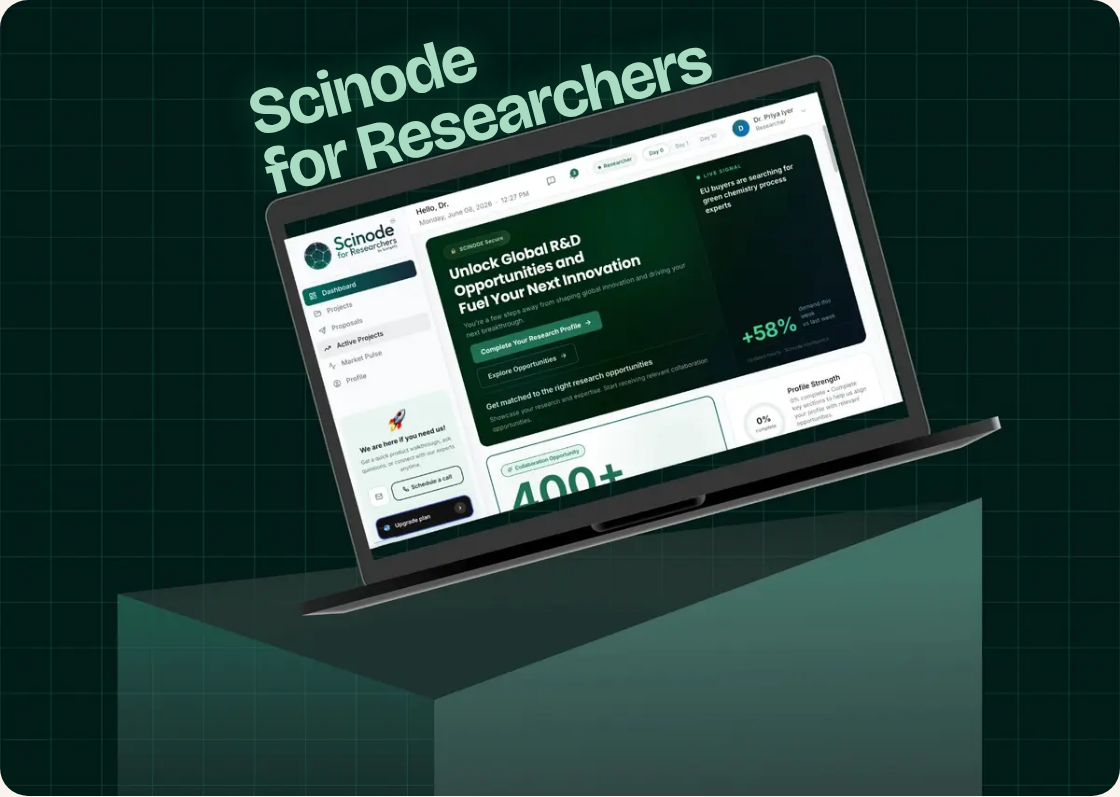
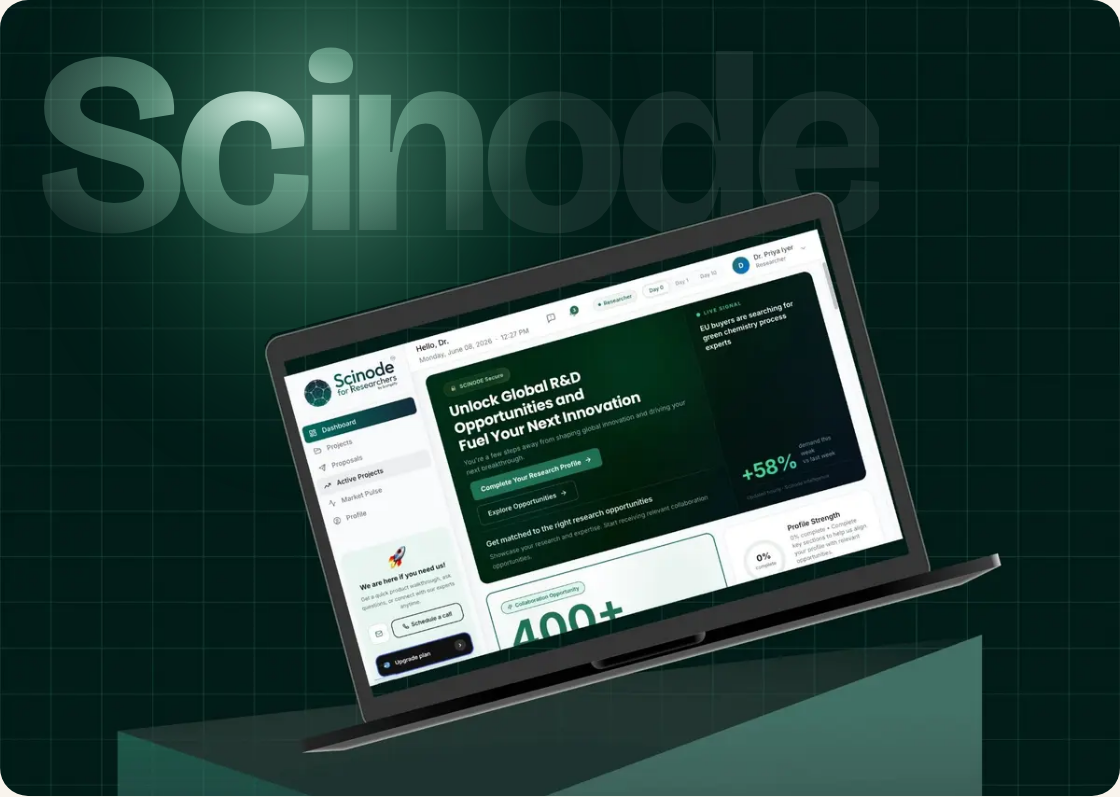
Scinode for Researchers: hero in the style of Sathi's reference, a huge spotlit word behind the laptop
Claude-Session: https://claude.ai/code/session_019tdsjdycHUUKRYVh6BtvSG

diff --git a/src/components/scinode/researcher/hero.tsx b/src/components/scinode/researcher/hero.tsx
@@ -1,33 +1,38 @@
 import Image from "next/image"
 
-// Hero for Scinode for Researchers: Sathi's laptop mockup with a huge "Scinode for Researchers" title tucked
-// behind the screen. Layers: the full image, the title, then the same image clipped to the laptop outline
-// (image coordinates in %, traced on the 2000×1422 original), so the lid hides the bottom of the letters.
-const src = "/case-studies/scinode/researcher-hero.jpg"
+// Hero for Scinode for Researchers, in the style of Sathi's reference (a huge, low-contrast brand word lit by a soft
+// spotlight, partly hidden behind the screen). Her laptop mockup, with the grid background extended upward so the
+// word fits above the lid. Layers: the image, a mint spotlight, the word, then the same image clipped to the traced
+// laptop outline (% of the 2000×1422 image), so the lid covers the bottom of the letters on the right.
+const src = "/case-studies/scinode/researcher-hero-v2.jpg"
 const laptop =
-  "polygon(23.6% 26.16%, 24.3% 24.75%, 72.9% 6.75%, 74.2% 7.31%, 74.75% 8.44%, 83% 54.15%, 89.3% 52.32%, 89.4% 54.15%, 27.3% 77.43%, 26.85% 76.65%, 32.6% 73.28%)"
+  "polygon(23.6% 43.39%, 24.3% 41.98%, 72.9% 23.98%, 74.2% 24.54%, 74.75% 25.67%, 83% 71.38%, 89.3% 69.55%, 89.4% 71.38%, 27.3% 94.66%, 26.85% 93.88%, 32.6% 90.51%)"
 
 export function ResearcherHero() {
   return (
     <div className="relative overflow-hidden rounded-[20px] md:rounded-[28px] [container-type:inline-size]" style={{ aspectRatio: "2000 / 1422" }}>
       <Image src={src} alt="" fill priority sizes="(min-width: 1200px) 1120px, 100vw" className="object-cover" />
-      {/* the title runs parallel to the lid's top edge, its lower part tucked behind the screen */}
+      {/* spotlight */}
+      <div
+        aria-hidden
+        className="absolute rounded-full blur-[4cqw]"
+        style={{ left: "6%", top: "-22%", width: "46%", height: "78%", background: "radial-gradient(closest-side, rgba(150,220,190,0.55), rgba(47,174,116,0.18) 60%, transparent)" }}
+      />
+      {/* the word: faint on the dark grid, brighter where the spotlight falls */}
       <p
         aria-hidden
-        className="absolute font-heading leading-[0.92] font-bold tracking-[-0.03em] whitespace-nowrap select-none"
+        className="absolute font-heading leading-none font-bold tracking-[-0.04em] whitespace-nowrap select-none"
         style={{
-          left: "24.3%",
-          top: "24.75%",
-          fontSize: "5.9cqw",
-          transformOrigin: "0 100%",
-          transform: "translateY(-100%) rotate(-14.75deg) translateY(0.7cqw)",
-          color: "#a9dcc3",
-          textShadow: "0 0 3cqw rgba(47,174,116,0.35)",
+          left: "3%",
+          top: "0.5cqw",
+          fontSize: "27.5cqw",
+          backgroundImage: "radial-gradient(ellipse 34% 60% at 27% 35%, rgba(222,248,236,0.9) 0%, rgba(160,222,194,0.5) 40%, rgba(255,255,255,0.075) 100%)",
+          WebkitBackgroundClip: "text",
+          backgroundClip: "text",
+          color: "transparent",
         }}
       >
         Scinode
-        <br />
-        for Researchers
       </p>
       <Image src={src} alt="Scinode for Researchers dashboard on a laptop" fill sizes="(min-width: 1200px) 1120px, 100vw" className="object-cover" style={{ clipPath: laptop }} />
     </div>

diff --git a/CLAUDE.md b/CLAUDE.md
@@ -125,7 +125,7 @@ The site is inspired by https://www.benshih.design/: its layout patterns, type s
    - Status (Oct 2026): LOW-FIDELITY ARCHITECTURE, at her request. Real content: the ecosystem copy (her wording: 3 portals, 6 steps 01 Create an opportunity … 06 Initiate & track execution, journey Customer demand → … → Delivery, 3 value props). Everything else is a dashed "Placeholder" wireframe (`wire.tsx`) marked "Content to come" until she sends content, screens and flows.
    - Colours: SCINODE uses only the site palette: brand green + purple (customer = purple #ece9fd/#6e62e5, supplier = green #e4f1eb/#02594e, admin and execution = neutral sand #f2ece3/#6b7f7c; placeholder/"Content to come" chips purple #ece9fd/#5b4fd1). No orange/blue/yellow.
    - Page order (her request): first "How it works" (understand the ecosystem), then the clickable map. Ecosystem page: hero (meta placeholders + image box), then How it works (below), then a full-width clickable **Ecosystem map** titled "What I designed, by user" (`ecosystem-map.tsx`, id `map`): 6-column hierarchy: SCINODE pill → three portals; Customer Portal → one "Customer portal modules" card (purple header strip) split in two: CVP (her module, clickable, "Designed by me") | dashed "Other customer modules" (teammates), so CVP reads as part of the portal; Business & Admin Portal → dashed teammates card; Supplier Portal → two sign-up tracks (`supplierTracks`): Manufacturer → Manufacturer card, Researcher → CRO + Scientist (`track: "researcher"`, breadcrumb SCINODE › Supplier portal › Researcher › CRO). Her cards are white with a green border, a `kind` eyebrow, module chips or "Content to come", a corner arrow and a "Designed by me" footer; teammates' lines are grey and drawn under the green ones; lines are measured from non-animated wrappers so they stay exact while cards pop in; connectors draw in one by one on scroll level by level with cards popping in; phones get an indented vertical tree (portal → track → card) (CSS `order`). How it works (full width, id `ecosystem`, placed BEFORE the map; `Ecosystem` in `ecosystem.tsx`): her reference-board layout made cleaner, ~800px so it fits one screen. Big solid brand-green \"Platform Ecosystem\" title (same size as before, no longer faint) with the intro BELOW it (no overlap); three portal columns as soft tinted bands (customer purple, admin neutral, supplier green; no nested boxes) with an inline icon header + one-line purpose; white step cards placed 01 customer; 02 + 03 admin; 04 + 05 supplier; 06 below admin (Execution tag). Real arrows with arrowheads in the 64px column gaps: 01→02, 02→03, 02→04, 04→05, 05→03 (proposal back into collaboration), 03→06, drawn one by one on scroll, each card fading in as its arrow arrives. Her steps (01, 04, 05 = `litSteps`, TBC) get a green "Designed by me" tab. Copy is ONLY her text (not the reference image's). Phones: portals stack with their cards, no arrows. Full page order (Oct 2026, no TOC): header (meta + "project at a glance" as a compact row of scope facts: 3 portals, 6 steps, 2 sign-up tracks, 4 user areas; My role = "Designed the CVP module in the customer portal and the whole supplier side"), hero box, **The problem** (above the ecosystem; `problem` in `scinode.ts`, rendered with Deep Research's `problemSolution` block: No clear start / Hard to match / Lost continuity, drafted by Claude from her own ecosystem copy, awaiting her confirmation), How it works, Ecosystem map, **Visual language** (`visualLanguage`: Deep Research's `typeHierarchy` (Inter) + `palette` with generic uses; Sathi said SCINODE uses the same fonts and colours as Deep Research), **Explore what I designed** (3 cards: CVP, Manufacturer sign-up, Researcher sign-up with CRO and Scientist links; Manufacturer and Researcher show her "Scinode for Manufacturers/Researchers by Scimplify" logos small at the top left (`public/case-studies/scinode/logo-*.png`, grey background keyed out), CVP shows the customer portal logo "Scinode by Scimplify" (`logo-customers.png`, slightly smaller, all logos in a fixed h-11 slot); each card has a 16:10 image placeholder until she sends the card images). The page's <main> sets the Deep Research accent vars and maps --tone-orange to #1F392D so the reused renderers show no orange. Learnings and the separate My role section were removed at her request (SCINODE is not finished, so no learnings yet).
-   - **Scinode for Researchers** (`/work/scinode/researcher`, page `src/app/work/scinode/researcher/page.tsx`, data `src/lib/scinode-researcher.ts`, visuals `src/components/scinode/researcher/diagrams.tsx`, client bits `interactive.tsx`: pilot-plant toggle + evolution flip cards): ONE research-led UX case study for CROs and scientists (Oct 2026, reworked after Sathi's feedback). NO CRO/Scientist switch: both share every use case (verify, find projects, propose, run projects); ONLY THE PROFILE differs (CRO 8 sections, scientist 5 steps), shown in Personas ("Same for both" / "Only the profile is different") and in the platform architecture (the profile node splits in two). Rules: visual first, very little text, no résumé-style bullet lists, prominent understandable headings, say "CROs and scientists" (never "supplier"), no buyer research on this page, no market section, no inner scroll on desktop. Header has no meta row (the overview carries it). Hero (`researcher/hero.tsx`): Sathi's laptop mockup `public/case-studies/scinode/researcher-hero.jpg` (dark green grid, laptop on a green block; the Next.js dev "N" badge baked into her screenshot was painted out) with a huge mint "Scinode / for Researchers" title tilted to the lid angle (-14.75°) and tucked behind the screen: image, then title, then the same image clip-pathed to the traced laptop outline, so the lid hides the bottom of the second line. Layout like the other case studies (Sathi's request): sticky "On this page" TOC on the left, every section (overview included) in the content column beside it, never full width. Compact rhythm (Oct 2026, at her request): sections pt-16/lg:pt-20, header-to-content mt-8/md:mt-10, titles 30/34/38px; keep it compact. Each section has an editorial header (`EdSection`/`EdHead` in `ed-section.tsx`: small label, light title whose second part is italic serif; NO "[0n]" index numbers, removed at her request). Sections: Overview, in the content column, in the editorial style of Sathi's reference (`EditorialOverview`, data `overview`): small "Overview" label (no "[01]" index), light one-line title "One R&D platform for" + italic serif "CROs & scientists", a huge statement mixing plain words and grey Instrument Serif italic words ("We help labs show their science, get matched by chemistry, and run every project in one place.") with pastel gradient icon bubbles (peach microscope, lavender puzzle, mint layers) overlapping those words, then a "Label / value" list (Company, Users, Role, Year) and a short grey paragraph on the right. Instrument Serif is loaded only for this case study (`researcher/fonts.ts`) → Problem "Great labs, hidden behind emails" (`ProblemVenn`, Sathi's reference in site colours on the cream page, with her THREE original problems: three overlapping dashed circles in a triangle, Problem 01 Invisible / 02 Mismatched / 03 Scattered with lavender pills, each in the part of its circle no other circle covers; the shared centre (a rect clipped by all three circles) is brand green with a soft glow and holds the white "Solution" pill and text; md+ only, phones stack three dashed cards and a green solution card) (the same section continues with the research objectives at her request: sub-heading "Research objectives / Four questions to answer", the 4 objective cards and the how-might-we panel; no separate objectives section or TOC entry) → Research methods "Seven research methods" (`MethodArcs`, Sathi's design-process reference on the cream page: a white core circle (radial white → faint mint, soft green halo and drop shadow, thin green rings, one dashed; NOT a solid fill, at her request) with the Scinode for Researchers logo at the left, 7 concentric oval rings fading out to the left (inner rings nearly round, outer flatter so they stay below the labels), a vertical line from each ring's rightmost point up to a vertical method label with an icon disc on top, and each method's `detail` curving along its ring via textPath; phones get a vertical icon timeline) → User research "Understand user needs" (`UserNeeds`, radial infographic from Sathi's reference, in brand green not orange: three real figures on the left, 98% purity and 10% advance from interviews, 0/10 competitors showing equipment from the competitive analysis, each with a source pill, joined by lines to a dashed arc around a striped half circle with a green glow; 4 glass need cards with green icon circles on the right; fixed-aspect SVG stage on lg, stacked stats + 2×2 cards below lg; then 3 italic serif quotes `ResearchQuotes`) → Competitive analysis "Where other platforms fall short" (only the comparison matrix, the coverage bars were removed at her request; it fits the column on desktop and scrolls inside its own box on small screens) → Affinity mapping "What we heard, grouped" (tilted notes) → Empathy map "Inside a researcher's mind" (compact 2×2 + pains/gains, fits one screen) → Personas "Meet the CRO and the scientist" (one board per persona in the style of her UX persona reference, on the cream page with a faint dot grid and dashed curves: quote top left with coloured key words (CRO = a real interview quote; scientist = the proto-persona's main goal, labelled as not a quote), white profile card (coded icon avatar, name, role, years, tools), "Needs from the platform" card (plain decorative lines, NOT percentage bars, no data for those), Goals and Pain points cards, a solid About card (CRO green, scientist purple) with a "Profile" gauge overlapping it (8 sections / 5 steps, one segment each); then the "Same for both / Only the profile is different" panel; needs and tools come from her research doc and the scientist onboarding requirements) → User journey map "From discovery to delivery" (shape of her platform workflow slide: Discover, Evaluate, Collaborate, Manage, Execute pills with green offset shadow and dot rails; the slide's figures are NOT used) → Platform architecture "One flow, two profiles" → Key design decisions (6, one line each + screenshot placeholder for her screens, in two columns from md; #2 includes the pilot-plant toggle above its screen) → Visual direction (colour study) → Outcome (PM targets as rings, labelled targets) → How it evolved (flip cards: first concept vs what shipped) → What's next. Sources: her research doc (Jun–Jul 2025, the first concept) + the PM's docs (later iterations). NEVER publish: the internal product codename, colleagues' names or emails, internal system names, costing formulas, confidential deck numbers, competitor screenshots. `/work/scinode/cro`, `/scientist` and the CRO module pages redirect here.
+   - **Scinode for Researchers** (`/work/scinode/researcher`, page `src/app/work/scinode/researcher/page.tsx`, data `src/lib/scinode-researcher.ts`, visuals `src/components/scinode/researcher/diagrams.tsx`, client bits `interactive.tsx`: pilot-plant toggle + evolution flip cards): ONE research-led UX case study for CROs and scientists (Oct 2026, reworked after Sathi's feedback). NO CRO/Scientist switch: both share every use case (verify, find projects, propose, run projects); ONLY THE PROFILE differs (CRO 8 sections, scientist 5 steps), shown in Personas ("Same for both" / "Only the profile is different") and in the platform architecture (the profile node splits in two). Rules: visual first, very little text, no résumé-style bullet lists, prominent understandable headings, say "CROs and scientists" (never "supplier"), no buyer research on this page, no market section, no inner scroll on desktop. Header has no meta row (the overview carries it). Hero (`researcher/hero.tsx`, style of her "Gaitor" reference): her laptop mockup `public/case-studies/scinode/researcher-hero-v2.jpg` (dark green grid, laptop on a green block; the Next.js dev "N" badge baked into her screenshot was painted out; the grid was extended 245px upward (4 grid rows, columns shifted by the 91px grid period) and the same amount cropped off the pedestal bottom, so it stays 2000×1422) with one huge straight, low-contrast word "Scinode" (Bricolage, 27.5cqw) lit by a mint spotlight on the left (radial gradient clipped to the text + blurred glow), tucked behind the screen: image, glow, word, then the same image clip-pathed to the traced laptop outline, so the lid covers the bottom of "node". Layout like the other case studies (Sathi's request): sticky "On this page" TOC on the left, every section (overview included) in the content column beside it, never full width. Compact rhythm (Oct 2026, at her request): sections pt-16/lg:pt-20, header-to-content mt-8/md:mt-10, titles 30/34/38px; keep it compact. Each section has an editorial header (`EdSection`/`EdHead` in `ed-section.tsx`: small label, light title whose second part is italic serif; NO "[0n]" index numbers, removed at her request). Sections: Overview, in the content column, in the editorial style of Sathi's reference (`EditorialOverview`, data `overview`): small "Overview" label (no "[01]" index), light one-line title "One R&D platform for" + italic serif "CROs & scientists", a huge statement mixing plain words and grey Instrument Serif italic words ("We help labs show their science, get matched by chemistry, and run every project in one place.") with pastel gradient icon bubbles (peach microscope, lavender puzzle, mint layers) overlapping those words, then a "Label / value" list (Company, Users, Role, Year) and a short grey paragraph on the right. Instrument Serif is loaded only for this case study (`researcher/fonts.ts`) → Problem "Great labs, hidden behind emails" (`ProblemVenn`, Sathi's reference in site colours on the cream page, with her THREE original problems: three overlapping dashed circles in a triangle, Problem 01 Invisible / 02 Mismatched / 03 Scattered with lavender pills, each in the part of its circle no other circle covers; the shared centre (a rect clipped by all three circles) is brand green with a soft glow and holds the white "Solution" pill and text; md+ only, phones stack three dashed cards and a green solution card) (the same section continues with the research objectives at her request: sub-heading "Research objectives / Four questions to answer", the 4 objective cards and the how-might-we panel; no separate objectives section or TOC entry) → Research methods "Seven research methods" (`MethodArcs`, Sathi's design-process reference on the cream page: a white core circle (radial white → faint mint, soft green halo and drop shadow, thin green rings, one dashed; NOT a solid fill, at her request) with the Scinode for Researchers logo at the left, 7 concentric oval rings fading out to the left (inner rings nearly round, outer flatter so they stay below the labels), a vertical line from each ring's rightmost point up to a vertical method label with an icon disc on top, and each method's `detail` curving along its ring via textPath; phones get a vertical icon timeline) → User research "Understand user needs" (`UserNeeds`, radial infographic from Sathi's reference, in brand green not orange: three real figures on the left, 98% purity and 10% advance from interviews, 0/10 competitors showing equipment from the competitive analysis, each with a source pill, joined by lines to a dashed arc around a striped half circle with a green glow; 4 glass need cards with green icon circles on the right; fixed-aspect SVG stage on lg, stacked stats + 2×2 cards below lg; then 3 italic serif quotes `ResearchQuotes`) → Competitive analysis "Where other platforms fall short" (only the comparison matrix, the coverage bars were removed at her request; it fits the column on desktop and scrolls inside its own box on small screens) → Affinity mapping "What we heard, grouped" (tilted notes) → Empathy map "Inside a researcher's mind" (compact 2×2 + pains/gains, fits one screen) → Personas "Meet the CRO and the scientist" (one board per persona in the style of her UX persona reference, on the cream page with a faint dot grid and dashed curves: quote top left with coloured key words (CRO = a real interview quote; scientist = the proto-persona's main goal, labelled as not a quote), white profile card (coded icon avatar, name, role, years, tools), "Needs from the platform" card (plain decorative lines, NOT percentage bars, no data for those), Goals and Pain points cards, a solid About card (CRO green, scientist purple) with a "Profile" gauge overlapping it (8 sections / 5 steps, one segment each); then the "Same for both / Only the profile is different" panel; needs and tools come from her research doc and the scientist onboarding requirements) → User journey map "From discovery to delivery" (shape of her platform workflow slide: Discover, Evaluate, Collaborate, Manage, Execute pills with green offset shadow and dot rails; the slide's figures are NOT used) → Platform architecture "One flow, two profiles" → Key design decisions (6, one line each + screenshot placeholder for her screens, in two columns from md; #2 includes the pilot-plant toggle above its screen) → Visual direction (colour study) → Outcome (PM targets as rings, labelled targets) → How it evolved (flip cards: first concept vs what shipped) → What's next. Sources: her research doc (Jun–Jul 2025, the first concept) + the PM's docs (later iterations). NEVER publish: the internal product codename, colleagues' names or emails, internal system names, costing formulas, confidential deck numbers, competitor screenshots. `/work/scinode/cro`, `/scientist` and the CRO module pages redirect here.
    - Area page: breadcrumb, audience line, `StepStrip`, hero box, Overview, Users & research, Modules I designed (numbered clickable cards), End-to-end flow (skeleton), Design highlights, Outcome, "More from SCINODE". Module page: breadcrumb SCINODE › portal › area › module, Overview, Problem & research, Workflow, Key screens (30/70 alternating), Decisions, Outcome (XYZ pointers), sibling modules + back links.
    - Writing rules for ALL SCINODE content (and new content generally): her source notes are fragmented, so analyse and restructure them; write achievements as ATS-friendly résumé pointers in Google's XYZ format, "Accomplished [X] as measured by [Y], by doing [Z]": action verb first, one line, plain words. Y must be a real figure she gave; if there is none, keep X and Z and leave a clearly marked [metric needed] placeholder, never invent numbers.
    - Still to confirm: what CVP stands for; the modules of CVP, Manufacturer and Scientist; which journey steps her work lights up.
